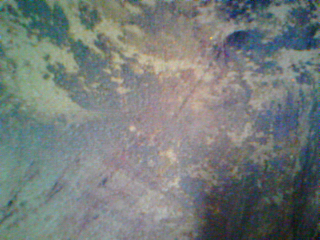
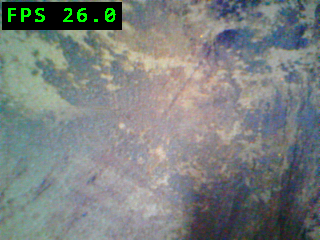
Prepare firmware v0.1.0 release

diff --git a/firmware/src/controllers/debug_controller.c b/firmware/src/controllers/debug_controller.c
@@ -8,6 +8,9 @@
 #include "../core/hk_screen.h"
 #include "../core/hk_string.h"
 #include "hk_config.h"
+#if HK_ENABLE_APP_SETTINGS
+#include "settings_controller.h"
+#endif
 #if HK_ENABLE_CAMERA_FEATURE
 #include "debug_camera_controller.h"
 #endif
@@ -51,6 +54,17 @@ void debug_uart_handle_command(const char *cmd)
         shell_show_menu();
         return;
     }
+#if HK_ENABLE_APP_SETTINGS
+    if(str_eq_ci(cmd, "HKSETTINGS"))
+    {
+        activity_note();
+#if HK_ENABLE_CAMERA_FEATURE
+        camera_stop();
+#endif
+        settings_controller_enter((const hk_input_snapshot_t *)0);
+        return;
+    }
+#endif
     if(str_eq_ci(cmd, "HKPING"))
     {
         debug_console_write_text("HKPONG\n");
@@ -59,10 +73,14 @@ void debug_uart_handle_command(const char *cmd)
     if(str_eq_ci(cmd, "HKHELP"))
     {
 #if HK_ENABLE_CAMERA_FEATURE
-        debug_console_write_text("HKHELP HKSHOT HKFRAME HKCAMINFO HKQRINFO HKFACEINFO HKQR/HKQRCAM HKQRDECODE HKFPS/HKFPSON/HKFPSOFF HKCAMPROBE HKCAMREGS HKCAMDVP HKCAMBAR HKCAMERA HKMENU HKPING\n");
+        debug_console_write_text("HKHELP HKSHOT HKFRAME HKCAMINFO HKQRINFO HKFACEINFO HKQR/HKQRCAM HKQRDECODE HKFPS/HKFPSON/HKFPSOFF HKCAMPROBE HKCAMREGS HKCAMDVP HKCAMBAR HKCAMERA ");
 #else
-        debug_console_write_text("HKHELP HKSHOT HKMENU HKPING\n");
+        debug_console_write_text("HKHELP HKSHOT ");
 #endif
+#if HK_ENABLE_APP_SETTINGS
+        debug_console_write_text("HKSETTINGS ");
+#endif
+        debug_console_write_text("HKMENU HKPING\n");
         return;
     }
 }

diff --git a/firmware/src/controllers/camera_settings_model.c b/firmware/src/controllers/camera_settings_model.c
@@ -11,6 +11,7 @@
 #include "../config/settings_config.h"
 #include "../config/photo_storage_config.h"
 #include "../config/camera_layout.h"
+#include "hk_config.h"
 
 #include "../services/settings_lights.h"
 #include "../services/qr_service.h"
@@ -81,7 +82,7 @@ static void camera_settings_row_value(uint8_t index, char *value, size_t value_s
         else if(index == QR_SETTINGS_RGB_BLUE)
             snprintf(value, value_size, "%u", camera_service_rgb_channel(CAMERA_RGB_BLUE));
         else
-            snprintf(value, value_size, "v1.0.0");
+            snprintf(value, value_size, "v%s", HACKYLENS_VERSION);
         return;
     }
 
@@ -104,7 +105,7 @@ static void camera_settings_row_value(uint8_t index, char *value, size_t value_s
     else if(index == CAMERA_SETTINGS_SIZE)
         snprintf(value, value_size, "%s", camera_size_label(camera_service_size()));
     else
-        snprintf(value, value_size, "v1.0.0");
+        snprintf(value, value_size, "v%s", HACKYLENS_VERSION);
 }
 
 static void camera_settings_build_model(camera_settings_view_model_t *model)

diff --git a/firmware/src/controllers/boot_controller.c b/firmware/src/controllers/boot_controller.c
@@ -22,7 +22,7 @@ static const hk_menu_view_t g_menu_view = {
 
 static void boot_log_banner(void)
 {
-    printf("[BOOT] HackyLens 1.0.0 full\r\n");
+    printf("[BOOT] HackyLens %s full\r\n", HACKYLENS_VERSION);
     printf("[BOOT] modular firmware ready\r\n");
     printf("[LCD] IO18=DC via GPIOHS output bit15, IO22=RST, IO19=SPI0_SS3\r\n");
     printf("[BTN] map LEFT=1 OK=2 RIGHT=4 BACK=8\r\n");
@@ -30,7 +30,7 @@ static void boot_log_banner(void)
     printf("[RGB] candidate IO32/IO30/IO31 PWM2_CH0/1/2 default OFF\r\n");
     printf("[SD] candidate IO27=SCLK IO28=D0 IO26=D1 IO29=CS\r\n");
     printf("[SHOT] UART command HKSHOT streams BMP screenshot over USB serial\r\n");
-    printf("[CAMDBG] HKCAMINFO HKFPS HKCAMPROBE HKCAMREGS HKCAMDVP HKCAMBAR HKFRAME HKCAMERA HKMENU debug commands enabled\r\n");
+    printf("[CAMDBG] HKCAMINFO HKFPS HKCAMPROBE HKCAMREGS HKCAMDVP HKCAMBAR HKFRAME HKCAMERA HKSETTINGS HKMENU debug commands enabled\r\n");
     printf("[QR] QR-CAMERA uses quirc 640x480 autoscan=1..5Hz 320x240 raw, hold OK=settings, HKQRDECODE=640x480 multipass\r\n");
     printf("[SETTINGS] flash slots 0x%06X/0x%06X\r\n", (unsigned)SETTINGS_FLASH_SLOT0, (unsigned)SETTINGS_FLASH_SLOT1);
     printf("[APP] count=%u\r\n", (unsigned)MENU_ITEM_COUNT);

diff --git a/tools/build_firmware.py b/tools/build_firmware.py
@@ -1,5 +1,5 @@
 #!/usr/bin/env python3
-"""Build HackyLens 1.0.0 full firmware through Kendryte standalone SDK."""
+"""Build HackyLens 0.1.0 full firmware through Kendryte standalone SDK."""
 
 from __future__ import annotations
 
@@ -224,7 +224,7 @@ def write_config(stage: Path, disabled_apps: set[str]) -> None:
     lines = [
         "#ifndef HK_CONFIG_H",
         "#define HK_CONFIG_H",
-        '#define HACKYLENS_VERSION "1.0.0"',
+        '#define HACKYLENS_VERSION "0.1.0"',
     ]
     for app, flag in APP_MODULES.items():
         lines.append(f"#define {flag} {0 if app in disabled_apps else 1}")

diff --git a/tools/check_env.py b/tools/check_env.py
@@ -1,5 +1,5 @@
 #!/usr/bin/env python3
-"""Check the local HackyLens 1.0.0 development environment."""
+"""Check the local HackyLens 0.1.0 development environment."""
 
 from __future__ import annotations
 
@@ -66,7 +66,7 @@ def status(ok: bool, name: str, detail: str = "") -> bool:
 
 
 def main() -> int:
-    print("HackyLens 1.0.0 full environment check")
+    print("HackyLens 0.1.0 full environment check")
     print("=======================================")
     ok = True
 

diff --git a/firmware/src/apps/terminal/terminal_controller.c b/firmware/src/apps/terminal/terminal_controller.c
@@ -1,6 +1,7 @@
 #include "terminal_controller.h"
 
 #include "../../config/input_config.h"
+#include "hk_config.h"
 #include "../../core/hk_log.h"
 #include "../../core/hk_menu.h"
 #include "../../core/hk_screen.h"
@@ -97,7 +98,7 @@ void terminal_controller_enter(const hk_input_snapshot_t *input)
     if(first_init)
     {
         shell_printf("[BOOT] HackyLens LCD terminal\r\n");
-        shell_printf("[BOOT] HackyLens 1.0.0 full\r\n");
+        shell_printf("[BOOT] HackyLens %s full\r\n", HACKYLENS_VERSION);
         shell_printf("[LCD] ST7789-compatible 320x240\r\n");
         shell_printf("[TERM] LEFT/RIGHT scroll, OK latest\r\n");
         shell_printf("[TERM] hold OK toggles font, BACK menu\r\n");

diff --git a/firmware/src/controllers/settings_controller.c b/firmware/src/controllers/settings_controller.c
@@ -7,6 +7,7 @@
 #include "../config/input_config.h"
 #include "../config/settings_config.h"
 #include "../config/settings_layout.h"
+#include "hk_config.h"
 #include "settings_actions.h"
 #include "settings_model.h"
 #include "../core/hk_back_exit.h"
@@ -126,7 +127,7 @@ static void settings_ok(void)
         return;
     }
 
-    printf("[SETTINGS] version HackyLens v1.0.0\r\n");
+    printf("[SETTINGS] version HackyLens v%s\r\n", HACKYLENS_VERSION);
 }
 
 void settings_controller_handle_buttons(const hk_input_snapshot_t *input)

diff --git a/firmware/src/controllers/settings_model.c b/firmware/src/controllers/settings_model.c
@@ -4,6 +4,7 @@
 
 #include "../config/settings_config.h"
 #include "../config/settings_layout.h"
+#include "hk_config.h"
 
 #include "../services/settings_service.h"
 #include "../ui/settings_view.h"
@@ -36,7 +37,7 @@ static void settings_row_value(uint8_t index, uint8_t selected, uint8_t editing,
     else if(index == SETTINGS_AUTO_SLEEP)
         snprintf(value, value_size, "%umin%s", settings_auto_sleep_minutes(), edit_mark);
     else
-        snprintf(value, value_size, "v1.0.0");
+        snprintf(value, value_size, "v%s", HACKYLENS_VERSION);
 }
 
 static void settings_build_model(settings_view_model_t *model, uint8_t index, uint8_t top, uint8_t editing)

diff --git a/firmware/config/hk_config_default.h b/firmware/config/hk_config_default.h
@@ -1,7 +1,7 @@
 #ifndef HK_CONFIG_DEFAULT_H
 #define HK_CONFIG_DEFAULT_H
 #ifndef HACKYLENS_VERSION
-#define HACKYLENS_VERSION "1.0.0"
+#define HACKYLENS_VERSION "0.1.0"
 #endif
 #ifndef HK_ENABLE_APP_TERMINAL
 #define HK_ENABLE_APP_TERMINAL 1

diff --git a/README.md b/README.md
@@ -3,7 +3,7 @@
   <h1>HackyLens</h1>
   <p><strong>Open-source modular firmware for HUSKYLENS and the Kendryte K210.</strong></p>
   <p>
-    <a href="VERSION"><img alt="Firmware version 1.0.0" src="https://img.shields.io/badge/firmware-v1.0.0-45d483?style=flat-square"></a>
+    <a href="VERSION"><img alt="Firmware version 0.1.0" src="https://img.shields.io/badge/firmware-v0.1.0-45d483?style=flat-square"></a>
     <a href="LICENSE"><img alt="MIT license" src="https://img.shields.io/badge/license-MIT-8bd5ca?style=flat-square"></a>
     <a href="https://www.dfrobot.com/product-1922.html?srsltid=AfmBOopFLFOvPDHc_IyIEzhXPL2jOfHyxDgTjD5jBq53ne3zEmhpjHFF"><img alt="Tested on SEN0305" src="https://img.shields.io/badge/tested%20on-SEN0305-f5a97f?style=flat-square"></a>
     <img alt="Kendryte K210" src="https://img.shields.io/badge/MCU-Kendryte%20K210-a6da95?style=flat-square">
@@ -33,9 +33,9 @@ Development and hardware testing were performed on the [DFRobot HUSKYLENS SEN030
 
 ## Screenshots
 
-| Main menu | Live camera |
-| --- | --- |
-| ![HackyLens main menu](docs/images/menu.png) | ![HackyLens camera preview](docs/images/camera.png) |
+| Main menu | Live camera | Settings |
+| --- | --- | --- |
+| ![HackyLens main menu](docs/images/menu.png) | ![HackyLens camera preview with FPS overlay](docs/images/camera.png) | ![HackyLens settings](docs/images/settings.png) |
 
 These 320 x 240 images were captured directly from a running HUSKYLENS over the firmware's UART screenshot protocol.
 
@@ -108,6 +108,12 @@ Capture the current LCD contents without a camera or screen-grabber:
 
 ```powershell
 python tools\hkflash.py screenshot --port COM10 --output screen.bmp
+```
+
+Debug commands can also open firmware screens directly; for example:
+
+```powershell
+python tools\hkflash.py cmd HKSETTINGS --port COM10
 ```
 
 Run `python tools\hkflash.py --help` or the help for an individual subcommand to see reset, baud-rate, verification, monitor, command, and frame-capture options.

diff --git a/docs/ARCHITECTURE.md b/docs/ARCHITECTURE.md
@@ -1,6 +1,6 @@
 # Architecture
 
-HackyLens 1.0.0 is modular firmware built from separate C translation units under `core`, `runtime`, `controllers`, `services`, `storage`, `ui`, `drivers`, `hal`, and `apps`.
+HackyLens 0.1.0 is modular firmware built from separate C translation units under `core`, `runtime`, `controllers`, `services`, `storage`, `ui`, `drivers`, `hal`, and `apps`.
 
 `firmware/targets/full.c` is a small composition root. It configures the runtime loop in `runtime/hk_main.c`, whose input polling and sleep timing remain platform-dependent. `core` owns app contracts, screen model, dispatch contracts, and neutral data contracts such as `core/pixel_source.h`; it does not access `hk_input` or `hal_time` directly.
 